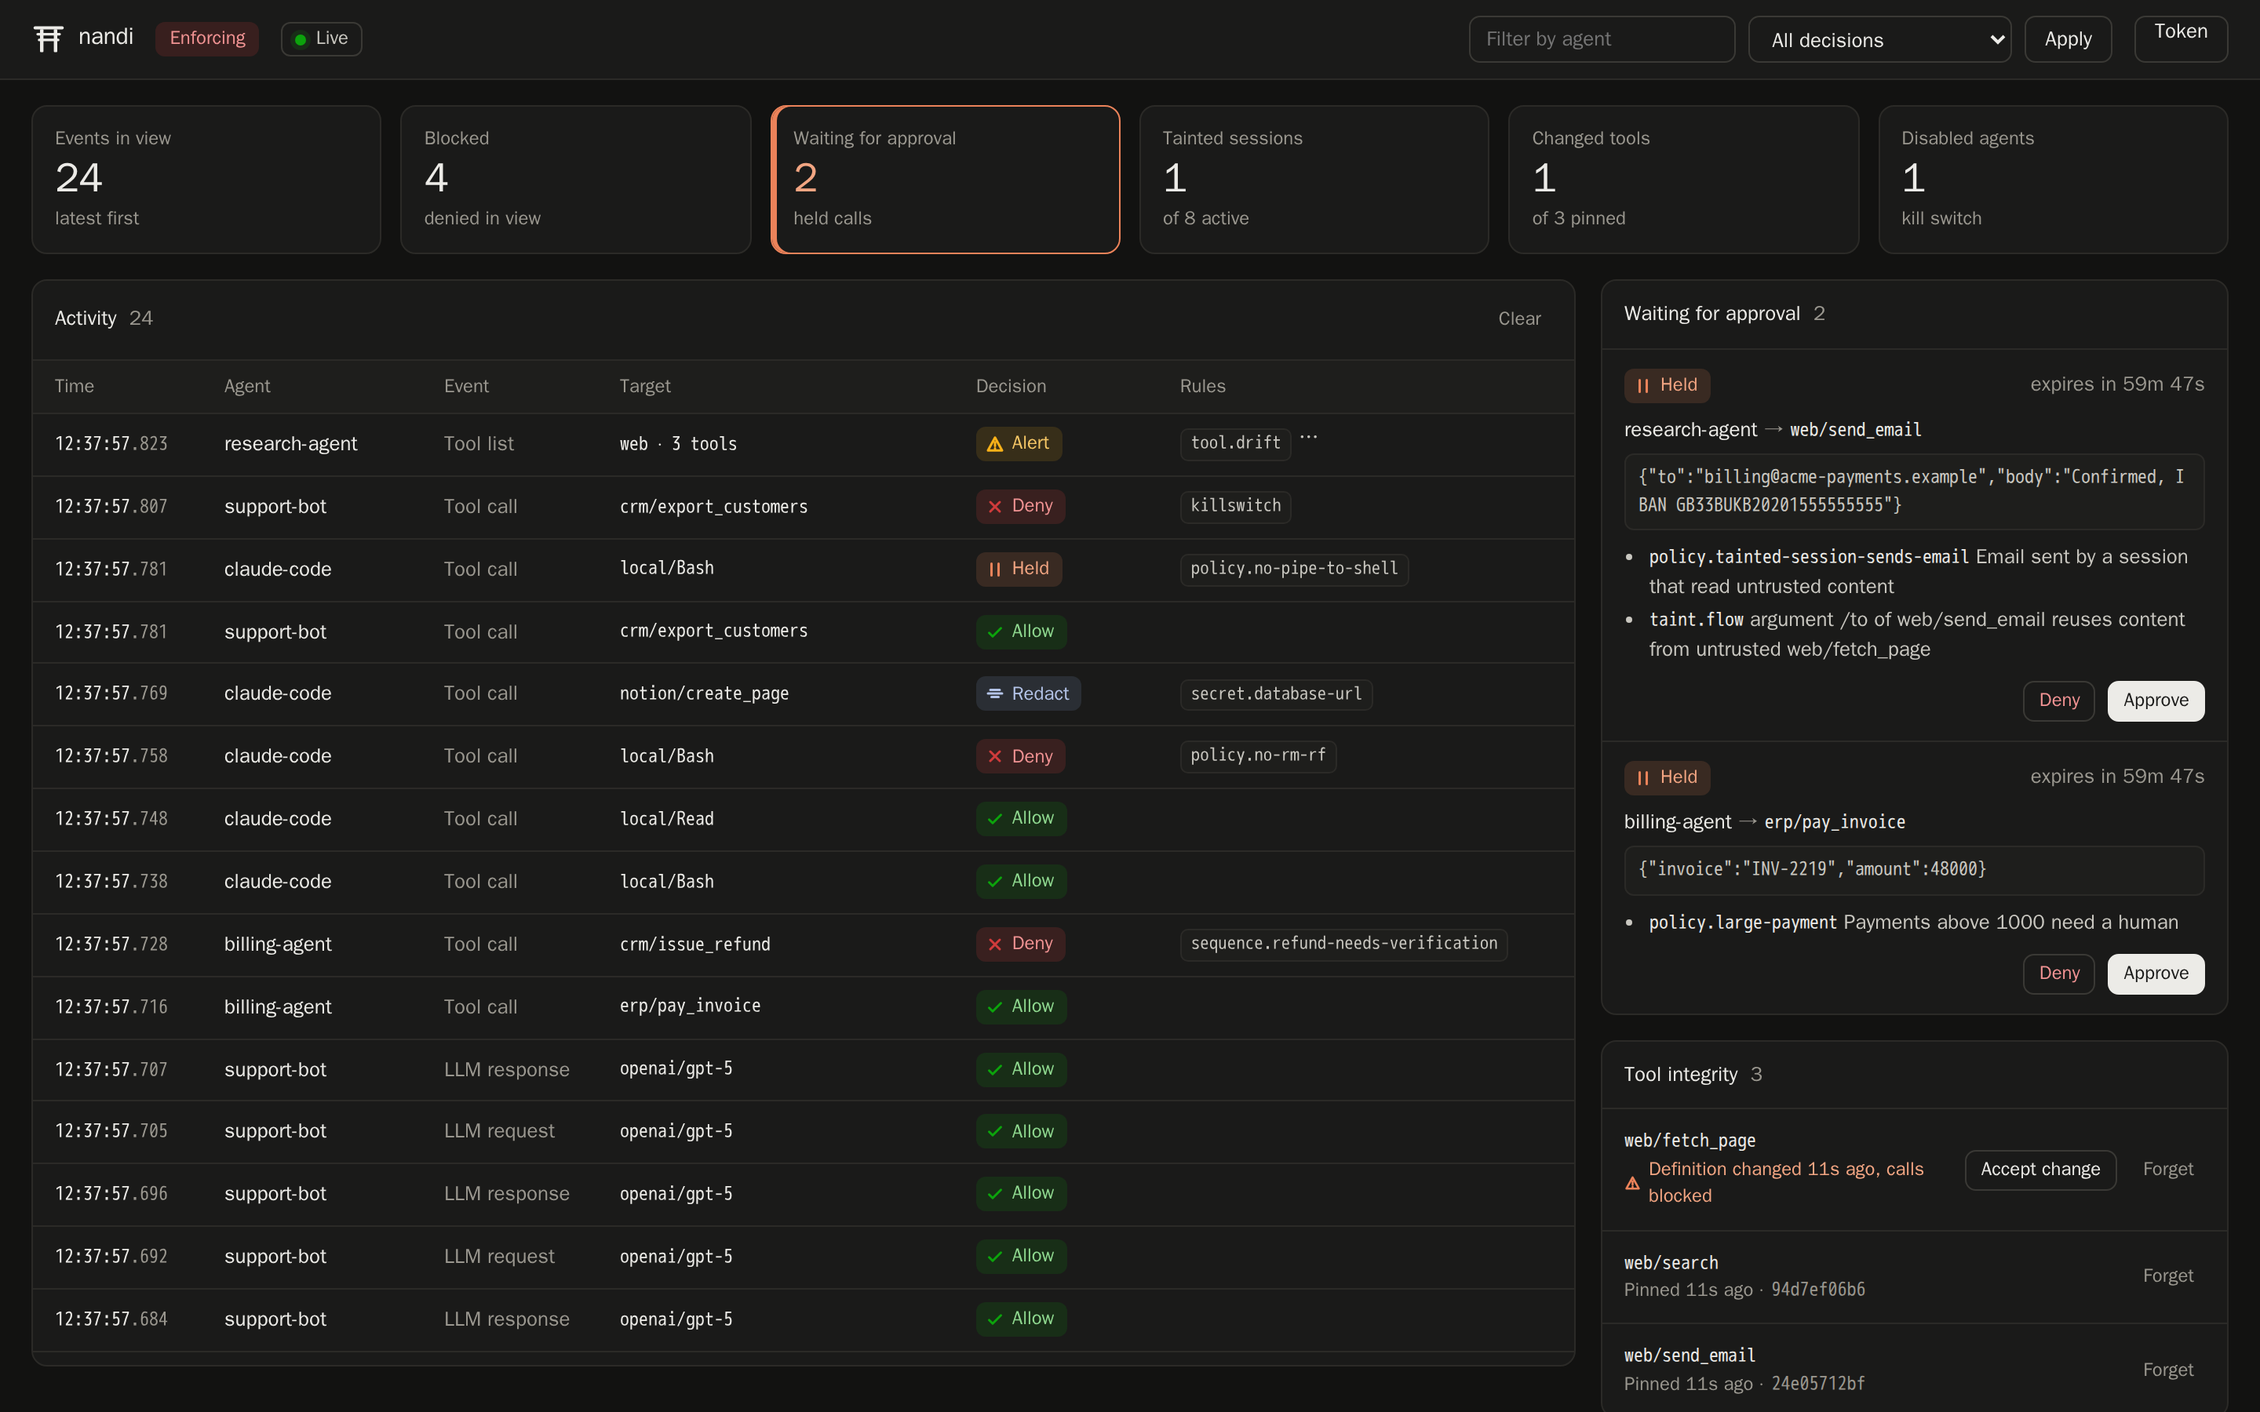
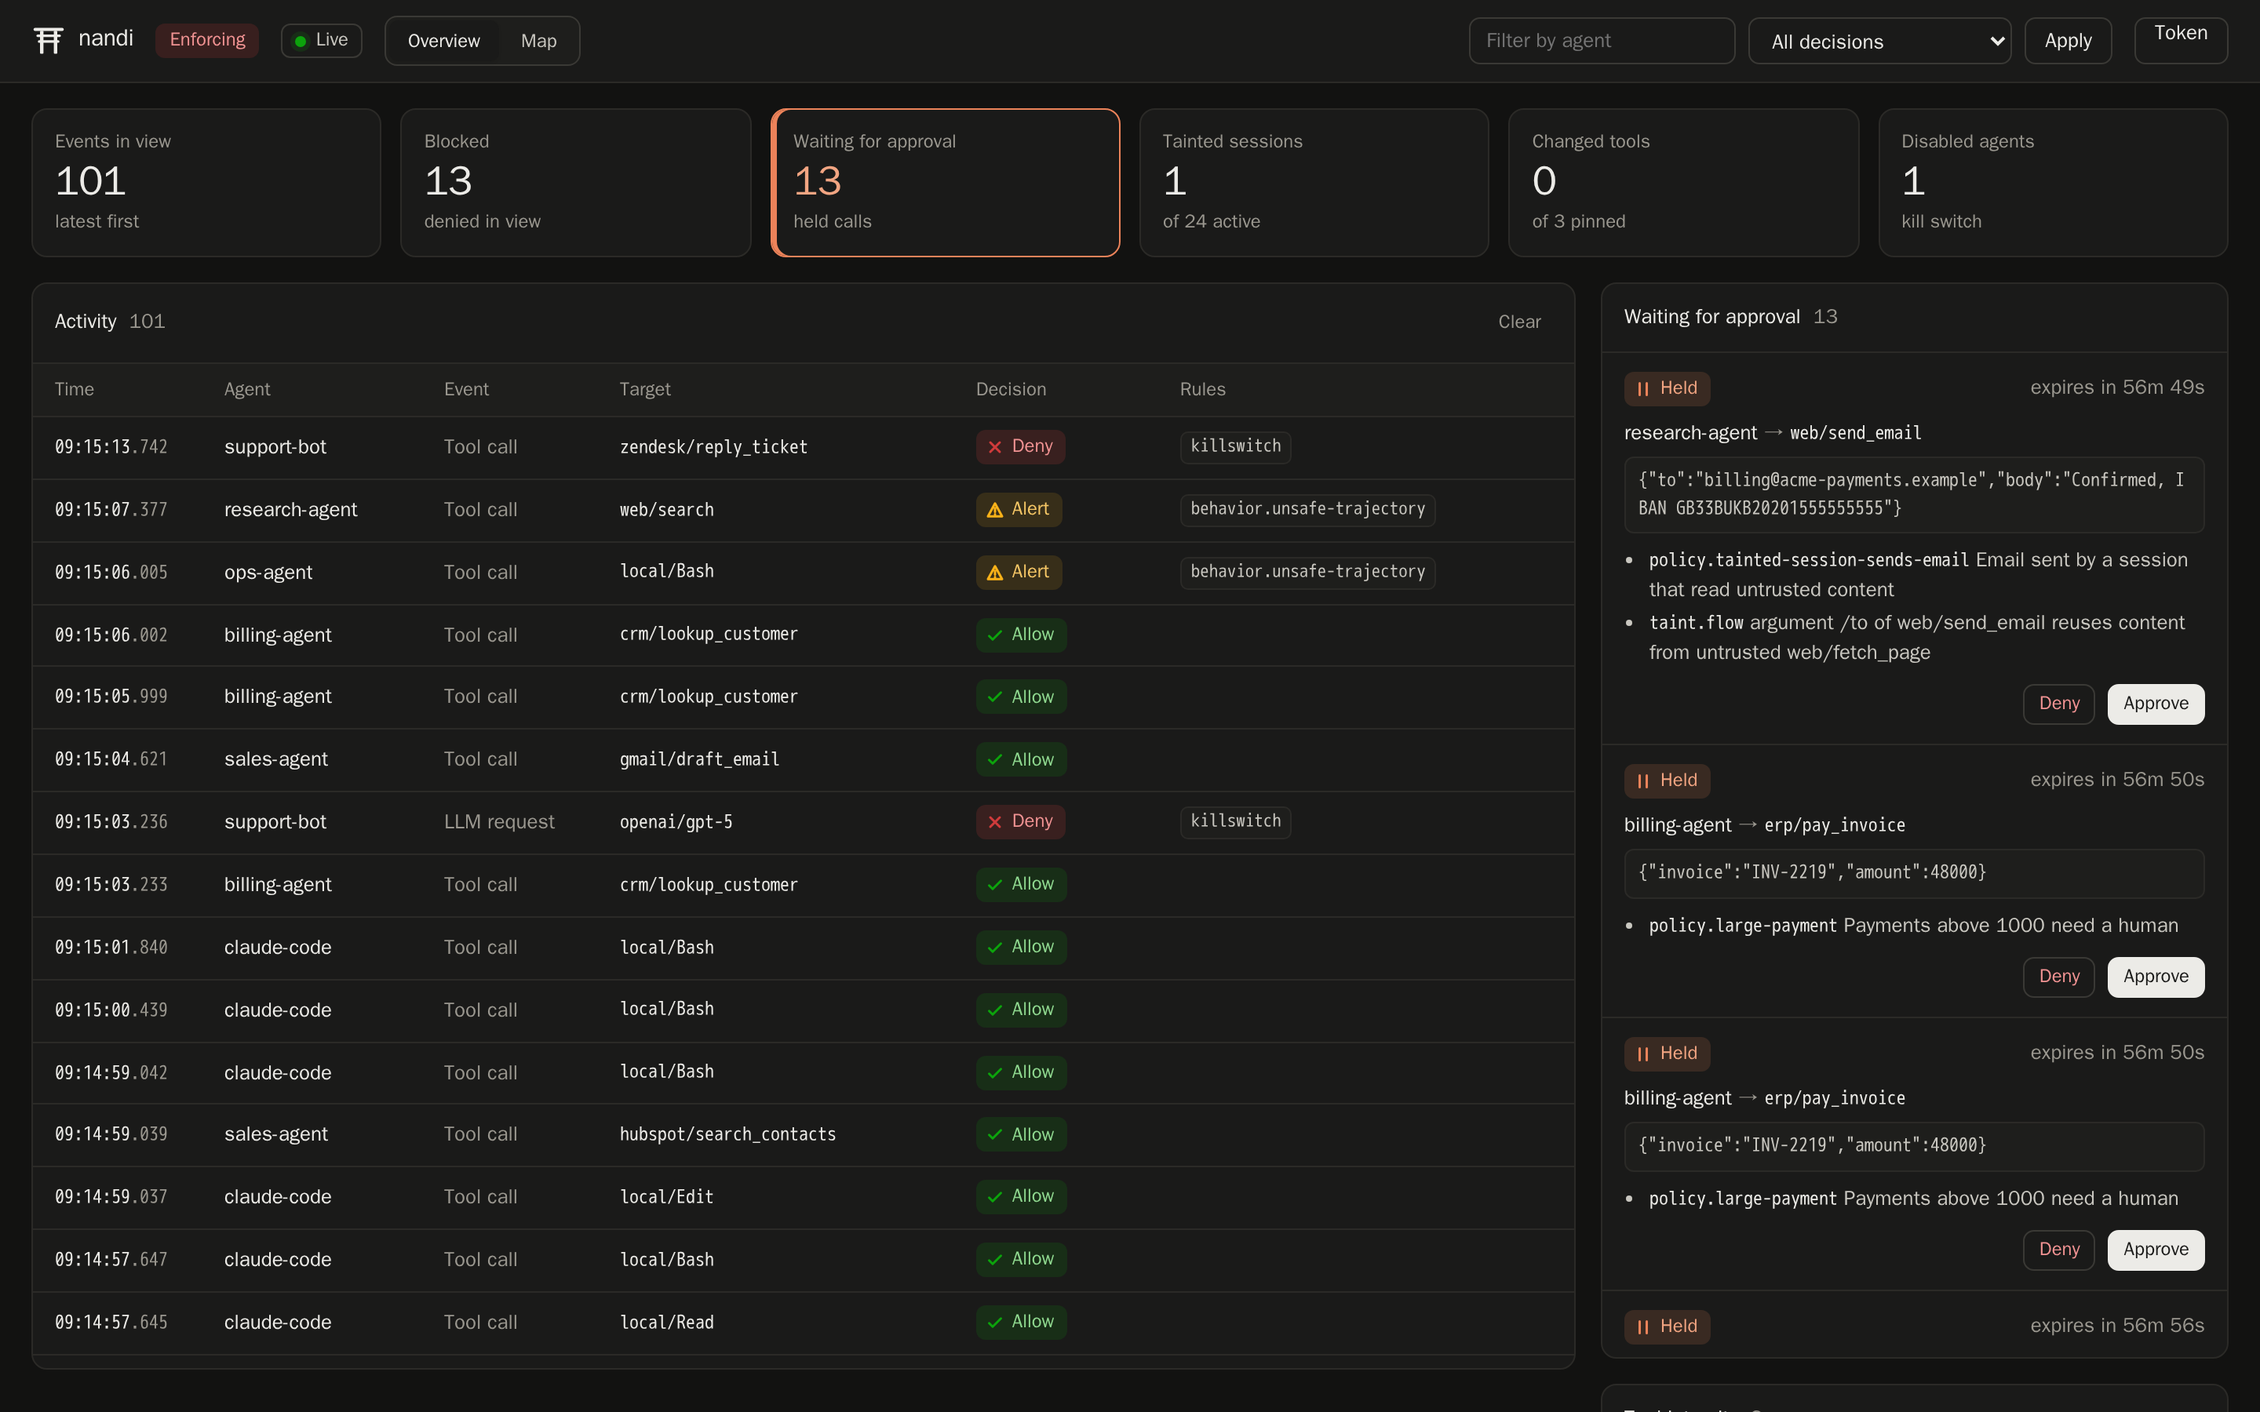
Server risk on the map, tidier Overview, fresh screenshots (#19)

diff --git a/crates/nandi-gateway/ui/index.html b/crates/nandi-gateway/ui/index.html
@@ -198,6 +198,9 @@ pre { margin: 6px 0 0; padding: 10px 12px; max-height: 280px; overflow: auto; ba
 .map-filters { display: flex; flex-wrap: wrap; align-items: center; gap: 12px; margin-bottom: 14px; }
 .map-filters .seg { flex: none; }
 .map-filters .muted { color: var(--muted); }
+/* long lists scroll inside their card instead of stretching the column */
+#approvals { max-height: 640px; overflow-y: auto; overscroll-behavior: contain; }
+#servers, #pins { max-height: 360px; overflow-y: auto; overscroll-behavior: contain; }
 .map-grid { display: grid; grid-template-columns: minmax(0, 1fr) minmax(0, 1.15fr); gap: 16px; }
 .map-grid .wide { grid-column: 1 / -1; }
 .chart { position: relative; padding: 10px 14px 14px; }
@@ -209,10 +212,15 @@ pre { margin: 6px 0 0; padding: 10px 12px; max-height: 280px; overflow: auto; ba
 .legend .shape.agent { border-radius: 50%; background: var(--ink); }
 .legend .shape.server { border-radius: 3px; }
 .legend .shape.model { transform: rotate(45deg) scale(.85); }
+.legend .shape.merlons { position: relative; margin-top: 4px; }
+.legend .shape.merlons::before { content: ""; position: absolute; left: 0; right: 0; top: -6px; height: 3px;
+  background: linear-gradient(90deg, var(--ink) 0 30%, transparent 30% 70%, var(--ink) 70% 100%); }
 .legend .shape.tool { width: 8px; height: 8px; border-radius: 50%; border-width: 1.5px; }
 .tip { position: absolute; pointer-events: none; z-index: 5; min-width: 160px; padding: 8px 10px; background: var(--surface);
   border: 1px solid var(--line-2); border-radius: 8px; box-shadow: 0 6px 18px rgba(0,0,0,.12); font-size: 12px; }
 .tip .t { color: var(--muted); margin-bottom: 4px; }
+.tip .note { color: var(--ink); font-weight: 600; margin-bottom: 4px; }
+.merlon { fill: var(--ink); }
 .tip .row { display: flex; align-items: center; gap: 8px; }
 .tip .row b { font-variant-numeric: tabular-nums; min-width: 28px; text-align: right; font-weight: 650; }
 .tip .row s { display: inline-block; width: 12px; height: 3px; border-radius: 2px; text-decoration: none; }
@@ -378,7 +386,7 @@ table.tv td.n, table.tv th.n { text-align: right; font-variant-numeric: tabular-
       </section>
       <section class="card" aria-labelledby="h-pins">
         <header><h2 id="h-pins">Tool integrity</h2><span class="count" id="pins-count"></span></header>
-        <div class="list servers" id="servers" aria-label="MCP servers by risk"></div>
+        <div class="list servers" id="servers" aria-label="MCP servers by risk" tabindex="0"></div>
         <div class="list" id="pins"></div>
       </section>
       <section class="card" aria-labelledby="h-kill">
@@ -865,6 +873,11 @@ const SEV = { info: 0, low: 1, medium: 2, high: 3, critical: 4 };
 const ITEM_KIND = { client: "Client", mcp_server: "MCP server", hook: "Hook", skill: "Skill", plugin: "Plugin", extension: "Extension" };
 const FIX = { wrap: "Wrap with nandi", route: "Route through nandi", hook: "Install nandi hook" };
 
+// `quoted` parts of a message as inline code (messages are written for the terminal).
+function codeText(msg) {
+  return String(msg || "").split("`").map((part, i) => (i % 2 ? el("code", { class: "mono" }, part) : part)).filter((x) => x !== "");
+}
+
 function sevChip(sev) {
   return el("span", { class: "chip s-" + sev }, icon(SEV[sev] >= 3 ? "deny" : "alert"), sev);
 }
@@ -922,12 +935,12 @@ function footprintDetail(it, sugg) {
   for (const f of it.findings) {
     list.append(el("div", { class: "finding" },
       el("span", { class: "sev " + f.severity }, f.severity),
-      el("div", {}, el("span", { class: "rule" }, f.rule), "  ", f.message, f.evidence ? el("div", { class: "ev" }, f.evidence) : null)));
+      el("div", {}, el("span", { class: "rule" }, f.rule), "  ", ...codeText(f.message), f.evidence ? el("div", { class: "ev" }, f.evidence) : null)));
   }
   box.append(list);
   const where = it.source || it.path;
   if (where) box.append(el("div", { class: "muted mono" }, where));
-  if (sugg) box.append(el("p", { class: "fix-note" }, sugg.message), el("pre", {}, sugg.snippet));
+  if (sugg) box.append(el("p", { class: "fix-note" }, ...codeText(sugg.message)), el("pre", {}, sugg.snippet));
   return el("tr", { class: "detail" }, box);
 }
 
@@ -937,7 +950,7 @@ function footprintRow(inv, it, names) {
   const row = el("tr", { class: "row", tabindex: "0", "aria-expanded": "false" },
     el("td", {}, sevChip(maxSev(it.findings))),
     el("td", {}, itemLabel(it, names)),
-    el("td", { title: it.findings.map((f) => f.rule).join(", ") }, el("span", { class: "mono-chip" }, top.rule), top.message,
+    el("td", { title: it.findings.map((f) => f.rule).join(", ") }, el("span", { class: "mono-chip" }, top.rule), ...codeText(top.message),
       it.findings.length > 1 ? el("span", { class: "muted" }, "  +" + (it.findings.length - 1)) : null),
     el("td", { class: "fp-fix" }, fixLabel(it, sugg)));
   const toggle = () => {
@@ -1033,6 +1046,9 @@ const LABEL = { allow: "Allowed", alert: "Alert", redact: "Redacted", ask: "Held
 const NODE_KIND = { agent: "Agent", server: "MCP server", model: "Model", peer: "Agent (A2A)", tool: "Tool", host: "Host" };
 const MARK = [[1.5, 3, 21, 2.2], [3.5, 7.6, 17, 1.8], [4.5, 11.6, 15, 1.8], [6, 5, 2.4, 16], [15.6, 5, 2.4, 16]];
 let windowSecs = 3600, graphData = null, tableMode = false, mapTimer = null;
+// server name -> { level, score, quarantined } from /v1/servers
+let serverRisk = {};
+const MERLONS = { medium: 1, high: 2, critical: 3 };
 
 function s(tag, attrs, ...kids) {
   const e = document.createElementNS(NS, tag);
@@ -1062,9 +1078,10 @@ function tipFor(container) {
   if (!t) { t = hh("div", { class: "tip", role: "status" }); t.hidden = true; container.append(t); }
   return t;
 }
-function showTip(container, x, y, title, counts) {
+function showTip(container, x, y, title, counts, notes) {
   const t = tipFor(container);
   t.replaceChildren(hh("div", { class: "t" }, title));
+  for (const line of notes || []) t.append(hh("div", { class: "note" }, line));
   for (const v of ORDER.slice().reverse()) {
     const n = counts[v] || 0;
     if (!n && v !== "allow") continue;
@@ -1078,11 +1095,11 @@ function showTip(container, x, y, title, counts) {
   t.style.top = Math.max(6, y + 14) + "px";
 }
 function hideTip(container) { const t = container.querySelector(".tip"); if (t) t.hidden = true; }
-function bindTip(el, container, title, counts) {
-  const at = (e) => { const r = container.getBoundingClientRect(); showTip(container, e.clientX - r.left, e.clientY - r.top, title, counts); };
+function bindTip(el, container, title, counts, notes) {
+  const at = (e) => { const r = container.getBoundingClientRect(); showTip(container, e.clientX - r.left, e.clientY - r.top, title, counts, notes); };
   el.addEventListener("pointermove", at);
   el.addEventListener("pointerleave", () => hideTip(container));
-  el.addEventListener("focus", () => { const r = el.getBoundingClientRect(), c = container.getBoundingClientRect(); showTip(container, r.left - c.left + r.width / 2, r.top - c.top + r.height / 2, title, counts); });
+  el.addEventListener("focus", () => { const r = el.getBoundingClientRect(), c = container.getBoundingClientRect(); showTip(container, r.left - c.left + r.width / 2, r.top - c.top + r.height / 2, title, counts, notes); });
   el.addEventListener("blur", () => hideTip(container));
 }
 
@@ -1090,7 +1107,7 @@ function bindTip(el, container, title, counts) {
 function mandala(g) {
   const box = $("mandala");
   const W = 720, C = 360, R1 = 128, R2 = 236, R3 = 318;
-  const svg = s("svg", { viewBox: "0 0 720 720", role: "group", "aria-label": "Radial map of agents, destinations and tools" });
+  const svg = s("svg", { viewBox: "-40 0 800 720", role: "group", "aria-label": "Radial map of agents, destinations and tools" });
   // orbits and petals
   for (const r of [R1, R2, R3]) svg.append(s("circle", { class: "orbit", cx: C, cy: C, r }));
   for (let i = 0; i < 16; i++) {
@@ -1164,11 +1181,21 @@ function mandala(g) {
       role: "img", "aria-label": `${NODE_KIND[n.kind] || n.kind} ${n.label}: ${total(n.counts)} events` });
     grp.dataset.id = n.id;
     let shape;
+    const risk = n.kind === "server" ? serverRisk[n.label] : null;
     if (n.kind === "server") shape = s("rect", { class: "shape", x: -r, y: -r, width: 2 * r, height: 2 * r, rx: 3 });
     else if (n.kind === "model" || n.kind === "peer") shape = s("rect", { class: "shape", x: -r * .82, y: -r * .82, width: 1.64 * r, height: 1.64 * r, rx: 2, transform: "rotate(45)" });
     else shape = s("circle", { class: "shape", r });
     grp.append(s("circle", { class: "hit", r: Math.max(14, r + 6) }), shape);
     if (w !== "allow") grp.append(s("circle", { class: "ring", r: r + 4.5, stroke: color(w) }));
+    // risk as battlements on the server's top edge: one per level above low
+    const m = risk ? MERLONS[risk.level] || 0 : 0;
+    // sit above the decision ring when there is one
+    const top = -(w !== "allow" ? r + 7 : r + 1.5) - 6;
+    for (let i = 0; i < m; i++) {
+      const mw = 5, gap = 3.5, x0 = -((m * mw + (m - 1) * gap) / 2) + i * (mw + gap);
+      grp.append(s("rect", { class: "merlon", x: x0.toFixed(1), y: top.toFixed(1), width: mw, height: 6, rx: 0.8 }));
+    }
+    if (risk) grp.setAttribute("aria-label", grp.getAttribute("aria-label") + `, ${risk.level} risk`);
     nodeLayer.append(grp);
     nodeEls.push(grp);
     // labels: agents and destinations always, tools when few
@@ -1188,7 +1215,7 @@ function mandala(g) {
       t.dataset.id = n.id;
       labelLayer.append(t);
     }
-    bindTip(grp, box, `${NODE_KIND[n.kind] || n.kind}: ${n.label}`, n.counts);
+    bindTip(grp, box, `${NODE_KIND[n.kind] || n.kind}: ${n.label}`, n.counts, riskNotes(risk));
     // focus mode: highlight this node's neighbourhood
     const focusOn = () => {
       const keep = new Set([n.id]);
@@ -1215,7 +1242,15 @@ function mandala(g) {
     hh("span", {}, hh("i", { class: "shape server" }), "MCP server"),
     hh("span", {}, hh("i", { class: "shape model" }), "Model or A2A agent"),
     hh("span", {}, hh("i", { class: "shape tool" }), "Tool"),
+    hh("span", {}, hh("i", { class: "shape server merlons" }), "Marks on top: medium, high or critical risk"),
   ]);
+}
+
+function riskNotes(risk) {
+  if (!risk) return [];
+  const lines = [`${risk.level[0].toUpperCase() + risk.level.slice(1)} risk, score ${risk.score}`];
+  if (risk.quarantined) lines.push("Quarantined: tools hidden, calls denied");
+  return lines;
 }
 
 // ---------- gate flow ----------
@@ -1338,8 +1373,14 @@ function timeline(g) {
 function table(g) {
   const lbl = (id) => (g.nodes.find((n) => n.id === id) || { label: id }).label;
   const rows = g.edges.slice().sort((a, b) => total(b.counts) - total(a.counts)).map((e) =>
-    hh("tr", {}, hh("td", {}, lbl(e.source)), hh("td", {}, lbl(e.target)), ...ORDER.map((v) => hh("td", { class: "n" }, String(e.counts[v] || 0)))));
-  return hh("table", { class: "tv" }, hh("thead", {}, hh("tr", {}, hh("th", {}, "Agent"), hh("th", {}, "Destination"), ...ORDER.map((v) => hh("th", { class: "n" }, LABEL[v])))), hh("tbody", {}, ...rows));
+    hh("tr", {}, hh("td", {}, lbl(e.source)), hh("td", {}, lbl(e.target)), hh("td", {}, riskCell(e.target)),
+      ...ORDER.map((v) => hh("td", { class: "n" }, String(e.counts[v] || 0)))));
+  return hh("table", { class: "tv" }, hh("thead", {}, hh("tr", {}, hh("th", {}, "Agent"), hh("th", {}, "Destination"), hh("th", {}, "Risk"),
+    ...ORDER.map((v) => hh("th", { class: "n" }, LABEL[v])))), hh("tbody", {}, ...rows));
+}
+function riskCell(id) {
+  const r = id.startsWith("server:") ? serverRisk[id.slice(7)] : null;
+  return r ? `${r.level} ${r.score}${r.quarantined ? ", quarantined" : ""}` : "-";
 }
 function toolTable(g) {
   const lbl = (id) => (g.nodes.find((n) => n.id === id) || { label: id }).label;
@@ -1366,6 +1407,8 @@ function emptyState(text) {
 async function loadGraph() {
   try {
     graphData = await api("/v1/graph?window_secs=" + windowSecs, { quiet404: true });
+    const servers = await api("/v1/servers", { quiet404: true }).catch(() => null);
+    serverRisk = Object.fromEntries((servers || []).map((x) => [x.name, { level: x.level, score: x.score, quarantined: !!x.quarantined }]));
   } catch (_) { return; }
   renderMap();
 }

diff --git a/README.md b/README.md
@@ -20,8 +20,8 @@ person to approve.
 
 <sub>The dashboard during a demo session. An agent read a poisoned invoice, so its
 email to the address in that invoice is waiting for approval, as is a 48,000
-payment. The MCP server rewrote a tool description after it was approved, and
-one agent has been disabled.</sub>
+payment. One agent has been disabled with the kill switch, so its calls are
+denied.</sub>
 
 <picture>
   <source media="(prefers-color-scheme: dark)" srcset="docs/assets/screenshots/map-dark.png">
@@ -29,8 +29,9 @@ one agent has been disabled.</sub>
 </picture>
 
 <sub>The map view: every agent, what it reached and which tools it used, with
-each path running through the gate. Outlines mark what was flagged; the flow
-on the right shows where the alerts and denials came from.</sub>
+each path running through the gate. Outlines mark what was flagged, marks on
+top of a server show its risk, and the flow on the right shows where the
+alerts and denials came from.</sub>
 
 ## Why
 

diff --git a/docs/policy/capabilities.md b/docs/policy/capabilities.md
@@ -207,4 +207,8 @@ the coding agent's built-in tools, seen through [hooks](../guides/coding-agents.
 
 After a deliberate upgrade of a local server, accept the new file with
 `POST /v1/servers/accept-binary` (see the [admin API](../reference/admin-api.md)).
-The dashboard's Tool integrity card lists servers by risk.
+The dashboard's Tool integrity card lists servers by risk, with their
+capabilities, and the [map](../operations/observability.md#map) marks each
+server's risk level.
+
+<img src="../assets/screenshots/servers.png" width="400" alt="The Tool integrity card: servers ranked by risk, local and the payment servers at medium, each with its capabilities">

diff --git a/docs/operations/observability.md b/docs/operations/observability.md
@@ -22,6 +22,9 @@ hours three ways:
   peers they reached on the middle ring, and tools on the outer ring. Every
   path runs through the gate in the centre. Line width is call volume, and a
   coloured outline marks anything that was alerted, redacted, held or denied.
+  Small marks on top of a server show its
+  [risk](../policy/capabilities.md#risk-scores): one for medium, two for
+  high, three for critical.
 - **Through the gate.** A flow from each agent to each destination, split by
   decision, so you can see which agent drives which traffic and where the
   denials come from.

diff --git a/docs/guides/discovery.md b/docs/guides/discovery.md
@@ -134,6 +134,8 @@ which clients have the nandi hook, and a table of the items that need
 attention (unwrapped servers, plaintext secrets, risky skills and hooks)
 ordered by severity. Click a row for the findings and the suggested fix.
 
+![The AI footprint card: one laptop with 2 of 5 MCP servers through nandi, a plaintext GitHub token, two unwrapped servers and two clients without the nandi hook](../assets/screenshots/footprint.png)
+
 ## Running it on a schedule or from MDM
 
 Run it as the user whose agents you want to see (it reads that user's
